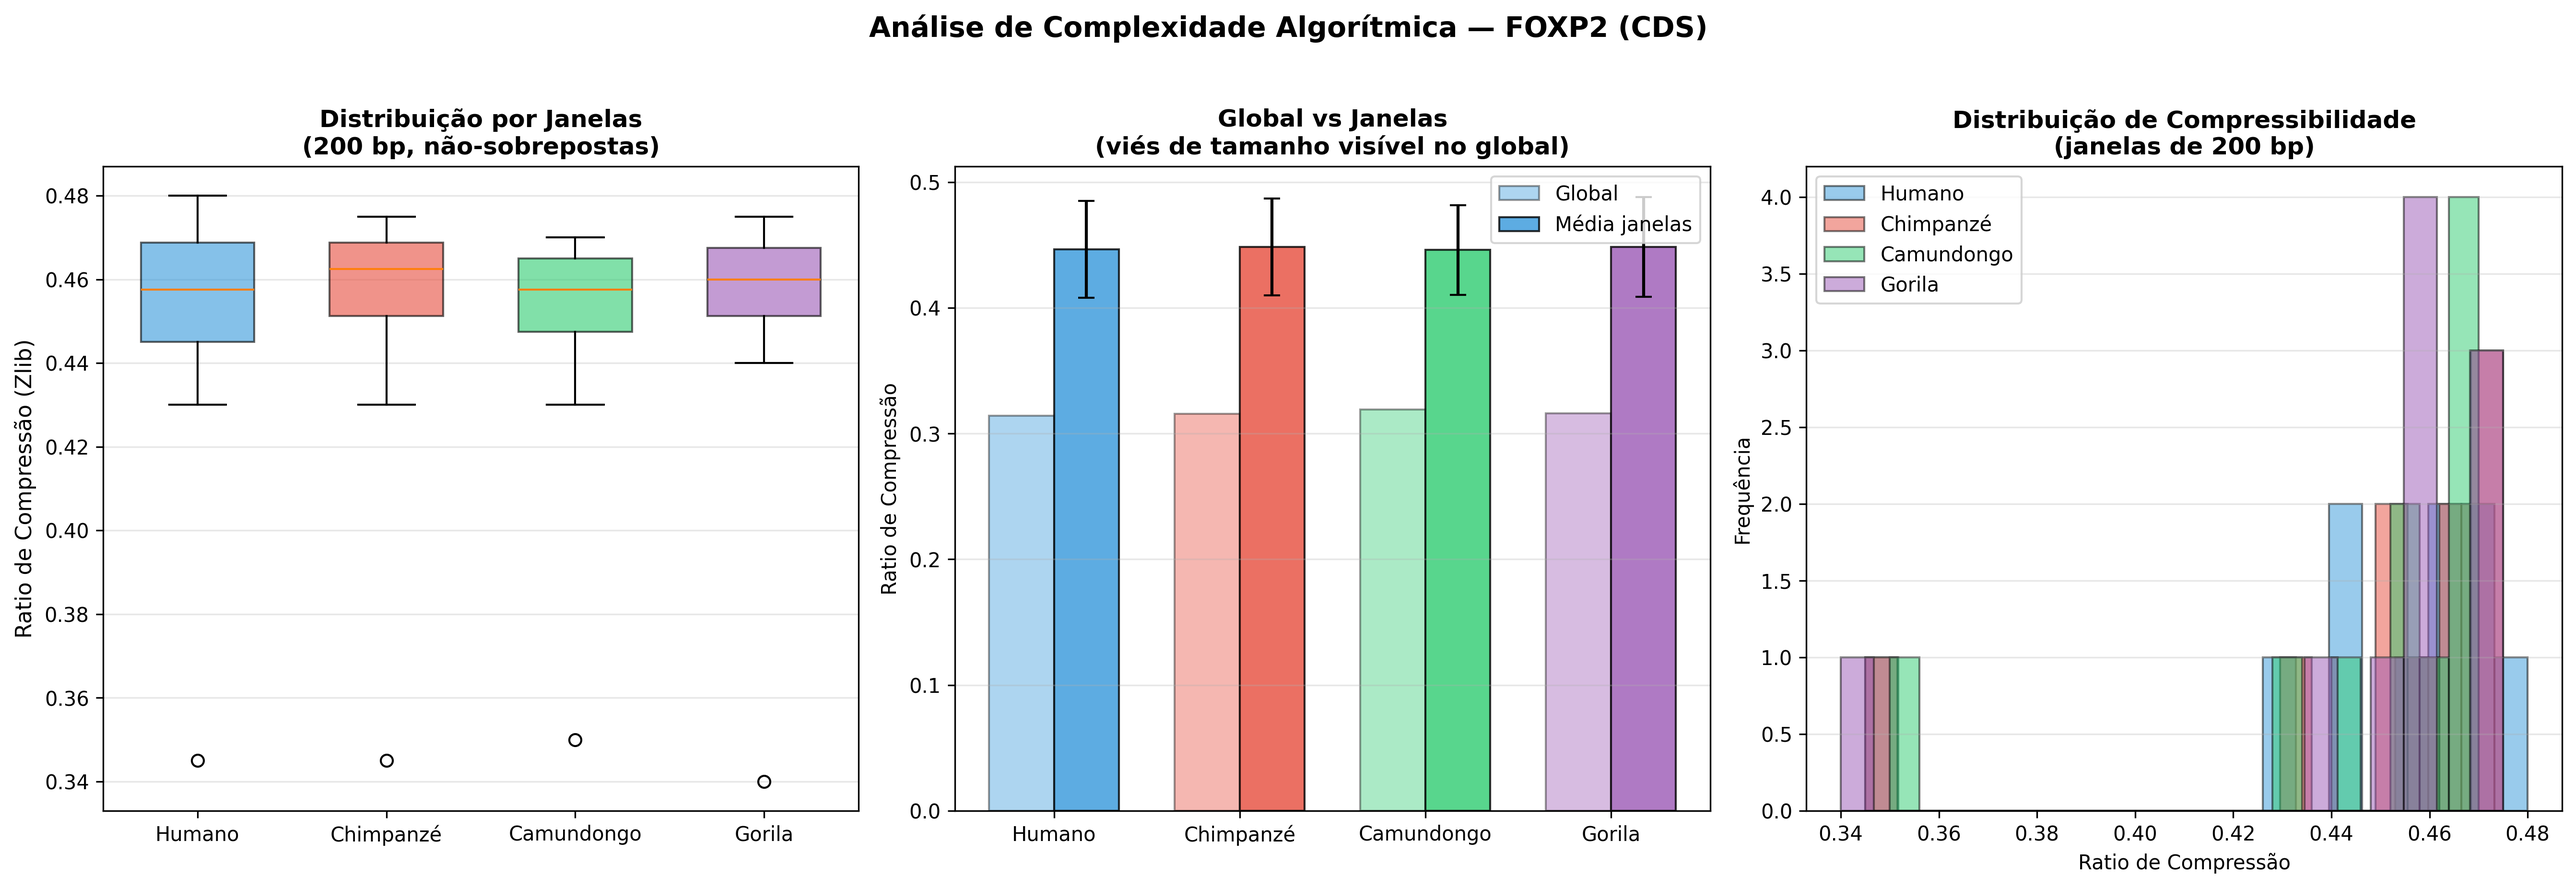
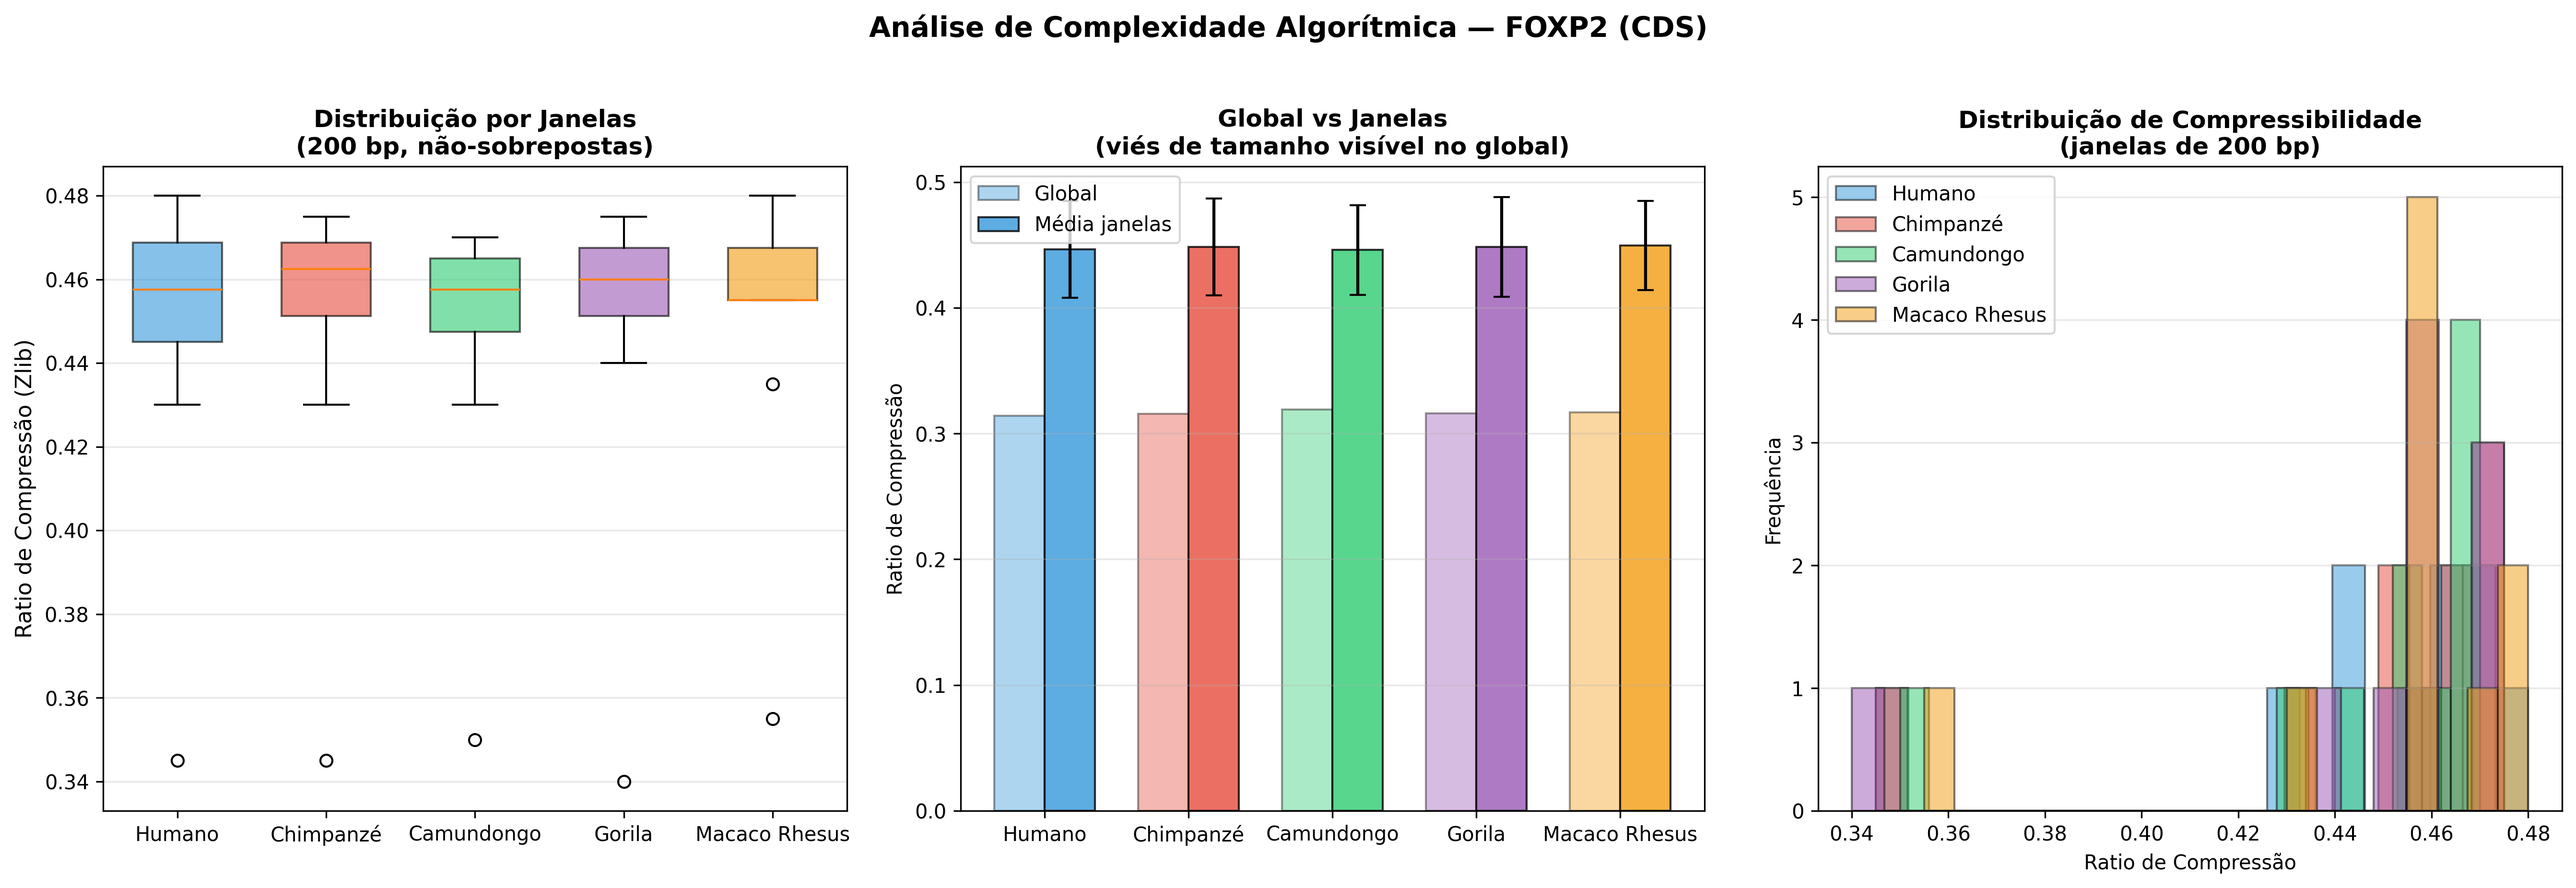
feat: README traduzido para pt-BR com imagens e 5 espécies
- README reescrito em português do Brasil
- Adicionado Macaco Rhesus na tabela de resultados e fontes de dados
- Imagens compressao_foxp2.png e entropia_foxp2.png incluídas no repo
- Cohen's d threshold corrigido para 0,10
- Diferença de mRNA corrigida para 215%

diff --git a/README.md b/README.md
@@ -1,59 +1,73 @@
-# Project LOGOS: Algorithmic Complexity Analysis of the FOXP2 Gene
+# Projeto LOGOS: Análise de Complexidade Algorítmica do Gene FOXP2
 
-## Overview
+## Visão Geral
 
-This project applies **Information Theory** (Shannon Entropy), **Algorithmic Complexity** (Kolmogorov via Zlib), and **statistical inference** to compare the FOXP2 coding sequence (CDS) across five mammalian species: *Homo sapiens*, *Pan troglodytes*, *Mus musculus*, *Gorilla gorilla*, and *Macaca mulatta*.
+Este projeto aplica métricas de **Teoria da Informação** (Entropia de Shannon e Complexidade de Kolmogorov via Zlib) e **inferência estatística** para comparar a sequência codificante (CDS) do gene FOXP2 em cinco espécies de mamíferos: *Homo sapiens*, *Pan troglodytes*, *Mus musculus*, *Gorilla gorilla* e *Macaca mulatta*.
 
-FOXP2 encodes a transcription factor critical for speech and language development. Its protein is notablediffering by only 2 amino acids between humans and chimpanzees, and 3 between humans and mice.
+O FOXP2 codifica um fator de transcrição essencial para o desenvolvimento da fala e linguagem em humanos. A proteína é notavelmente conservada entre mamíferos — diferindo em apenas 2 aminoácidos entre humanos e chimpanzés, e em 3 entre humanos e camundongos.
 
-### Version History
+### Histórico de Versões
 
-**v2.0 (February 2026) — Revised methodology.** The original analysis (v1) compared non-equivalent mRNA isoforms, producing a spurious 64% size difference and artificial information-theoretic divergence. This version corrects three critical flaws:
+**v2.0 (Fevereiro de 2026) — Metodologia revisada.** A análise original (v1) comparava isoformas não equivalentes de mRNA, produzindo uma diferença de tamanho artificial de 64% e divergência informacional espúria. Esta versão corrige três falhas críticas:
 
-1. **Isoform control:** CDS extracted from canonical isoforms via fixed RefSeq accession numbers, eliminating UTR-driven size artifacts.
-2. **Size-bias correction:** Non-overlapping windows (200 bp) for compression analysis, eliminating DEFLATE dictionary bias.
-3. **Effect size reporting:** Cohen's d alongside p-values, preventing statistical significance inflation from autocorrelated sliding windows.
+1. **Controle de isoformas:** CDS extraída de isoformas canônicas via accession numbers fixos do RefSeq, eliminando artefatos de tamanho causados pelas UTRs.
+2. **Correção do viés de tamanho:** Janelas não-sobrepostas de 200 bp para análise de compressão, eliminando o viés de dicionário do DEFLATE.
+3. **Tamanho de efeito:** Cohen's d reportado junto com p-values, prevenindo inflação de significância estatística por janelas autocorrelacionadas.
 
-## Key Findings
+---
 
-When comparing equivalent coding sequences, **all five species are informationally indistinguishable** in FOXP2:
+## Resultados Principais
 
-| Comparison | Δ Entropy (bits) | p-value | Cohen's d | Δ Compression | p-value | Cohen's d |
+Ao comparar sequências codificantes equivalentes, **todas as cinco espécies são informacionalmente indistinguíveis** no FOXP2:
+
+| Comparação | Δ Entropia (bits) | p-value | Cohen's d | Δ Compressão | p-value | Cohen's d |
 |---|---|---|---|---|---|---|
-| Human vs Chimpanzee | −0.0004 | 0.988 | 0.007 | 0.0020 | 0.909 | 0.052 |
-| Human vs Mouse | +0.0006 | 0.979 | 0.012 | 0.0005 | 0.976 | 0.013 |
-| Human vs Gorilla | −0.0012 | 0.961 | 0.022 | 0.0020 | 0.910 | 0.051 |
-| Human vs Rhesus Macaque | −0.0001 | 0.998 | 0.001 | 0.0030 | 0.859 | 0.081 |
+| Humano vs Chimpanzé | −0,0004 | 0,988 | 0,007 | 0,0020 | 0,909 | 0,052 |
+| Humano vs Camundongo | +0,0006 | 0,979 | 0,012 | 0,0005 | 0,976 | 0,013 |
+| Humano vs Gorila | −0,0012 | 0,961 | 0,022 | 0,0020 | 0,910 | 0,051 |
+| Humano vs Macaco Rhesus | −0,0001 | 0,998 | 0,001 | 0,0030 | 0,859 | 0,081 |
 
-All Cohen's d values are below 0.10 (negligible effect). The CDS sizes differ by at most 0.6% across species, compared to the 215% difference in full mRNA — confirming that the original findings were artifacts of isoform selection.
+Todos os valores de Cohen's d estão abaixo de 0,10 (efeito negligenciável). As CDS diferem em no máximo 0,6% entre as espécies, contra 215% de diferença no mRNA completo — confirmando que os resultados originais eram artefatos de seleção de isoforma.
 
-### What the original analysis got wrong
+### Visualizações
 
-| Metric | Original (v1) | Corrected (v2) |
+![Análise de Complexidade Algorítmica — FOXP2 CDS](compressao_foxp2.png)
+
+![Análise de Entropia de Shannon — FOXP2 CDS](entropia_foxp2.png)
+
+---
+
+### O que a análise original errou
+
+| Métrica | Original (v1) | Corrigido (v2) |
 |---|---|---|
-| Sequences compared | mRNA (different isoforms) | CDS (canonical isoforms) |
-| Human size | 6,618 bp | 2,148 bp |
-| Chimpanzee size | 2,380 bp | 2,151 bp |
-| Size difference | 64% | 0.1% |
-| Entropy difference | 0.0225 bits (p < 0.000001) | 0.0004 bits (p = 0.988) |
-| Windows | Overlapping (step=1) | Non-overlapping (200 bp) |
-| Effect size | Not reported | Cohen's d = 0.007 |
+| Sequências comparadas | mRNA (isoformas diferentes) | CDS (isoformas canônicas) |
+| Tamanho humano | 6.618 bp | 2.148 bp |
+| Tamanho chimpanzé | 2.380 bp | 2.151 bp |
+| Diferença de tamanho | 64% | 0,1% |
+| Diferença de entropia | 0,0225 bits (p < 0,000001) | 0,0004 bits (p = 0,988) |
+| Janelas | Sobrepostas (passo=1) | Não-sobrepostas (200 bp) |
+| Tamanho de efeito | Não reportado | Cohen's d = 0,007 |
 
-## Data Sources
+---
 
-Sequences obtained from NCBI RefSeq with controlled accession numbers:
+## Fontes de Dados
 
-| Species | Accession | CDS (bp) | Protein (aa) |
+Sequências obtidas do NCBI RefSeq com accession numbers controlados:
+
+| Espécie | Accession | CDS (bp) | Proteína (aa) |
 |---|---|---|---|
-| *Homo sapiens* | NM_014491 | 2,148 | 715 |
-| *Pan troglodytes* | NM_001009020 | 2,151 | 716 |
-| *Mus musculus* | NM_053242 | 2,145 | 714 |
-| *Gorilla gorilla* | XM_063708043.1 | 2,139 | 712 |
-| *Macaca mulatta* | NM_001033021.1 | 2,145 | 714 |
+| *Homo sapiens* | NM_014491 | 2.148 | 715 |
+| *Pan troglodytes* | NM_001009020 | 2.151 | 716 |
+| *Mus musculus* | NM_053242 | 2.145 | 714 |
+| *Gorilla gorilla* | XM_063708043.1 | 2.139 | 712 |
+| *Macaca mulatta* | NM_001033021.1 | 2.145 | 714 |
+
+---
 
 ## Pipeline
 
-### Requirements
+### Requisitos
 
 ```bash
 git clone https://github.com/maurizioprizzi/project-logos.git
@@ -63,55 +77,61 @@ source .venv/bin/activate
 pip install biopython matplotlib numpy scipy
 ```
 
-### Execution
+### Execução
 
 ```bash
-# Step 1: Download sequences (requires internet)
+# Passo 1: Download das sequências (requer internet)
 python3 coletas_dados.py
 
-# Step 2: Basic statistics and comparability validation
+# Passo 2: Estatísticas básicas e validação de comparabilidade
 python3 analise_basica.py
 
-# Step 3: Zlib compression analysis (non-overlapping windows)
+# Passo 3: Análise de compressão Zlib (janelas não-sobrepostas)
 python3 analise_avancada.py
 
-# Step 4: Shannon entropy with effect sizes
+# Passo 4: Entropia de Shannon com tamanhos de efeito
 python3 calculo_entropia.py
 ```
 
-Each script is self-contained and produces both terminal output and publication-quality figures (PNG, 300 dpi).
+Cada script é independente e produz saída no terminal e figuras em alta resolução (PNG, 300 dpi).
 
-### Output Files
+### Arquivos de Saída
 
-| File | Description |
+| Arquivo | Descrição |
 |---|---|
-| `*_foxp2_cds.fasta` | Coding sequences per species |
-| `*_foxp2_mrna.fasta` | Full mRNA per species (for reference) |
-| `metadados.json` | Collection metadata |
-| `compressao_foxp2.png` | Compression analysis figure |
-| `entropia_foxp2.png` | Entropy analysis figure |
+| `*_foxp2_cds.fasta` | Sequências codificantes por espécie |
+| `*_foxp2_mrna.fasta` | mRNA completo por espécie (referência) |
+| `metadados.json` | Metadados da coleta |
+| `compressao_foxp2.png` | Figura da análise de compressão |
+| `entropia_foxp2.png` | Figura da análise de entropia |
 
-## Tech Stack
+---
+
+## Tecnologias Utilizadas
 
 - **Python 3.12**
-- **BioPython** — GenBank fetching and CDS extraction
-- **SciPy** — Welch's t-test, Mann-Whitney U, Levene's test
-- **NumPy / Matplotlib** — Numerical analysis and visualization
-- **Zlib** — DEFLATE compression as Kolmogorov complexity proxy
+- **BioPython** — Download e extração de CDS do GenBank
+- **SciPy** — Teste t de Welch, Mann-Whitney U, teste de Levene
+- **NumPy / Matplotlib** — Análise numérica e visualização
+- **Zlib** — Compressão DEFLATE como proxy da Complexidade de Kolmogorov
 
-## Lessons Learned
+---
 
-This project serves as a case study in computational bioinformatics methodology:
+## Lições Aprendidas
 
-1. **Data selection determines results.** Comparing non-equivalent isoforms created a 64% size difference that does not exist in biology. Controlled accession numbers are essential.
-2. **Statistical significance ≠ practical significance.** With thousands of autocorrelated windows, any trivial difference yields p < 0.000001. Effect size (Cohen's d) is indispensable.
-3. **Compression algorithms have size bias.** DEFLATE builds more efficient dictionaries for longer sequences. Fixed-size non-overlapping windows eliminate this confound.
+Este projeto serve como estudo de caso em metodologia de bioinformática computacional:
 
-## Author
+1. **A seleção de dados determina o resultado.** Comparar isoformas não equivalentes criou uma diferença de 64% que não existe na biologia. Accession numbers específicos para isoformas canônicas são essenciais.
+2. **Significância estatística ≠ significância prática.** Com milhares de janelas autocorrelacionadas, qualquer diferença trivial produz p < 0,000001. O tamanho de efeito (Cohen's d) é indispensável.
+3. **Algoritmos de compressão têm viés de tamanho.** O DEFLATE comprime melhor sequências mais longas. Janelas não-sobrepostas de tamanho fixo eliminam esse confundidor.
+
+---
+
+## Autor
 
 **Maurizio Prizzi**
-*Professor of Optimization & Data Science*
+*Professor de Otimização e Ciência de Dados*
 
-## License
+## Licença
 
 MIT
